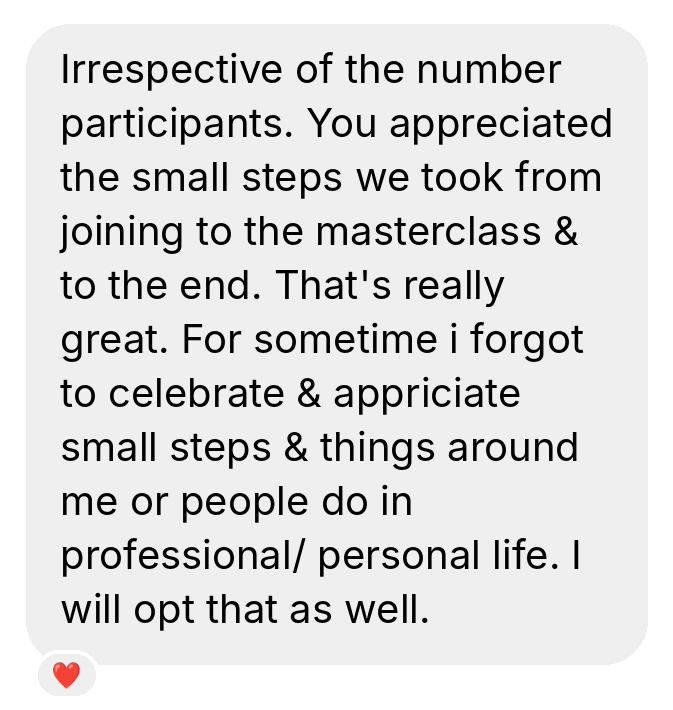
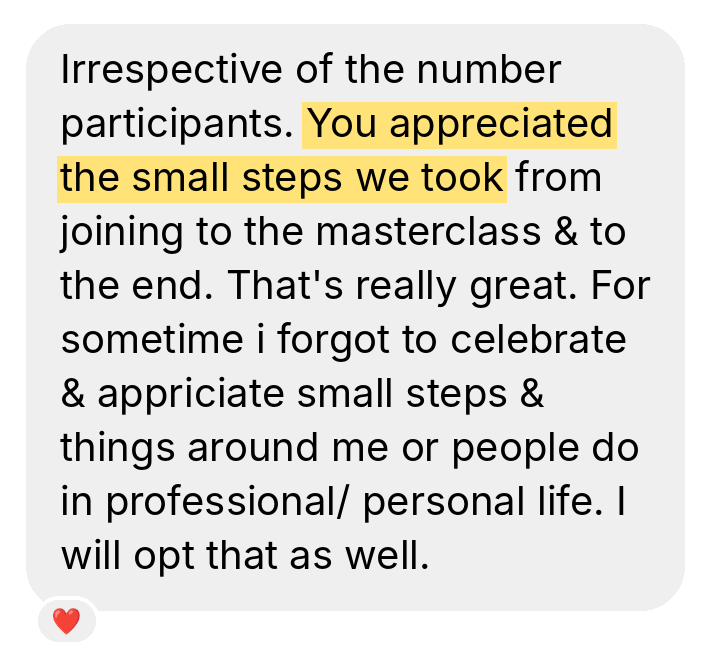
Website v3: new photos, buttons that sell, highlighted testimonials
Claude-Session: https://claude.ai/code/session_01CyaY9SvnjK7DZTafy9cMrn

Changed region(s): [[0.0624, 0.061, 0.9049, 0.8841], [0.0624, 0.9146, 0.1248, 0.9756]]

diff --git a/coming-home.html b/coming-home.html
@@ -8,7 +8,7 @@
 <meta name="description" content="Coming Home: 6 weeks with Deepshikha, live every week. Find what you actually want, and start living it.">
 <meta property="og:title" content="Coming Home · To See As It Is">
 <meta property="og:description" content="Coming Home: 6 weeks with Deepshikha, live every week. Find what you actually want, and start living it.">
-<meta property="og:image" content="assets/img/home-hero.webp">
+<meta property="og:image" content="assets/img/dp-brown.webp">
 <link rel="preconnect" href="https://fonts.googleapis.com"><link rel="preconnect" href="https://fonts.gstatic.com" crossorigin>
 <link rel="stylesheet" href="https://fonts.googleapis.com/css2?family=Cormorant+Garamond:ital,wght@0,500;0,600;1,500&family=DM+Sans:wght@400;500;600&display=swap">
 <link rel="stylesheet" href="assets/style.css">
@@ -17,14 +17,14 @@
 <header class="nav"><div class="wrap"><a class="logo" href="index.html">to see as it is</a><nav aria-label="Main"><ul><li><a href="index.html">Home</a></li><li><a href="coming-home.html" aria-current="page">Coming Home</a></li><li><a href="store.html">Store</a></li><li><a href="about.html">About</a></li></ul></nav></div></header>
 <main>
 <section class="hero"><div class="hero-split">
-  <div class="ph photo"><img src="assets/img/ch-hero.webp" alt="Deepshikha smiling up at the sky on a forest beach" width="1200" height="1600"></div>
+  <div class="ph photo"><img src="assets/img/hill-point.webp" alt="Deepshikha laughing on a hilltop, pointing up at a huge sky" width="1200" height="1600"></div>
   <div class="copy">
     <p class="label">Coming Home · a 6-week program with me</p>
-    <h1>The life you keep postponing <em>starts here.</em></h1>
-    <p class="lede read">For the one who's good at a job they don't love. In six weeks you find what you actually want, believe you're allowed to have it, and start living it: the money mapped, the conversation had, your first paid thing out in the world.</p>
+    <h1>The life you keep postponing <em>starts HERE.</em></h1>
+    <p class="lede read">For the one who's good at a job they don't love. In six weeks you find what you actually want, <strong>believe you're allowed to have it</strong>, and start LIVING it: the money mapped, the conversation had, your first paid thing out in the world.</p>
     <div class="btns">
-      <a class="btn btn-main" href="#join">Apply for Coming Home</a>
-      <a class="link" href="#inside">What's inside</a>
+      <a class="btn btn-main" href="#join">I'm ready to stop postponing</a>
+      <a class="link" href="#inside">Show me the 6 weeks</a>
     </div>
   </div>
 </div></section>
@@ -43,7 +43,7 @@
 <section class="dark"><div class="wrap stack-lg">
   <div class="stack read">
     <p class="label">Where you are</p>
-    <h2>You're not confused. <em>You're postponing.</em></h2>
+    <h2>You're not confused. <em>You're POSTPONING.</em></h2>
   </div>
   <ul class="scenes">
     <li><span class="when">Monday, 9:30 am</span><span class="what">The laptop opens and something in you switches off until Friday.</span></li>
@@ -58,7 +58,7 @@
   <div class="ph ph-tall"><img src="assets/img/joy.webp" alt="Deepshikha laughing on a beach with her arm up in the air" width="901" height="1600" loading="lazy"></div>
   <div class="stack-lg">
     <div class="stack"><p class="label">Six weeks from now</p>
-    <h2>You stop waiting for your life <em>and start living it.</em></h2></div>
+    <h2>You stop waiting for your life <em>and start LIVING it.</em></h2></div>
     <ul class="scenes">
       <li><span class="when">Monday</span><span class="what">You wake up knowing exactly what you're building and why. Every week moves you towards it.</span></li>
       <li><span class="when">The bank app</span><span class="what">You open it calm. You know your number, your runway and how you'll earn from what you love.</span></li>
@@ -70,14 +70,14 @@
 </div></section>
 
 <section class="dark"><div class="wrap split rev">
-  <div class="ph ph-tall"><img src="assets/img/laugh.webp" alt="Deepshikha laughing behind her hand" width="1200" height="1600" loading="lazy"></div>
+  <div class="ph ph-tall"><img src="assets/img/lake-laugh.webp" alt="Deepshikha laughing by a lake, arm stretched out" width="1200" height="1600" loading="lazy"></div>
   <div class="stack">
     <p class="label">Why I made this</p>
     <h2>I had the six-figure salary, the promotions, <em>the proud family.</em></h2>
-    <p>And every Sunday, the same weight. For years I told myself I just needed a remote job. Then it hit me: a remote job would only give me a remote version of the same life.</p>
+    <p>And every Sunday, the same weight. For years I told myself I just needed a remote job. Then it hit me: <strong>a remote job would only give me a remote version of the same life.</strong></p>
     <p>Halfway through ten days of silence at Vipassana, I knew. I left with no plan and built a life I actually wake up excited for.</p>
-    <p>I didn't need more information. I needed to see my life as it is, stay with the fear until it lost its grip, and then move. Coming Home is that, step by step, with me beside you.</p>
-    <p><a class="link" href="about.html">My story</a></p>
+    <p>I didn't need more information. I needed to <mark>see my life as it is</mark>, stay with the fear until it lost its grip, and then move. Coming Home is that, step by step, with me beside you.</p>
+    <p><a class="link" href="about.html">How I left with no plan</a></p>
   </div>
 </div></section>
 
@@ -101,8 +101,8 @@
   <div class="ph ph-tall"><img src="assets/img/ritual.webp" alt="Deepshikha's silhouette on the shore at sunset" width="1200" height="1600" loading="lazy"></div>
   <div class="stack-lg">
     <div class="stack"><p class="label">What you get</p>
-    <h2>Every week ends <em>with a ritual.</em></h2>
-    <p class="soft">A candle, a jar, a line on the floor, your own front door. Done with your hands and your body, so the change doesn't stay in your head. Nobody else teaches it this way.</p></div>
+    <h2>Every week ends <em>with a RITUAL.</em></h2>
+    <p class="soft">A candle, a jar, a line on the floor, your own front door. Done with your hands and your body, so the change doesn't stay in your head. <strong>Nobody else teaches it this way.</strong></p></div>
     <div class="incl">
       <div><strong>A live call with me, every week</strong><span class="soft">Bring what's stuck. We work on it together, live, in the group.</span></div>
       <div><strong>Lessons, week by week</strong><span class="soft">Real stories, real studies, the why behind every tool.</span></div>
@@ -116,7 +116,7 @@
 
 <section><div class="wrap stack-lg">
   <div class="stack read"><p class="label">In their words</p>
-  <h2>"It felt like <em>I am living it.</em>"</h2>
+  <h2>"It felt like <em>I am LIVING it.</em>"</h2>
   <p class="soft">Real messages, names left out.</p></div>
   <div class="wall">
     <figure><img src="assets/img/msg-1.png" alt="Message: That it felt like I am living it, from past few months I was thinking I am going far away from the life I want, but it felt so real and not something like I can't do it" loading="lazy"><figcaption>A Coming Home member, asked what surprised her</figcaption></figure>
@@ -134,9 +134,9 @@
   <div class="stack">
     <p class="label">Not for everyone. Read this.</p><h3>This is for you if</h3>
     <ul>
-      <li>You're the one everyone calls "sorted". Good job, good salary, a family that's proud. And you feel nothing on a Monday morning.</li>
+      <li>You're the one everyone calls "sorted". Good job, good salary, a family that's proud. <strong>And you feel NOTHING on a Monday morning.</strong></li>
       <li>You've been "about to" for months: the course, the side thing, the resignation mail sitting in drafts.</li>
-      <li>You know there's something you came here to do. You can almost name it.</li>
+      <li><strong>You know there's something you came here to do.</strong> You can almost name it.</li>
       <li>You're done collecting reels and advice. You want to move, with someone who has already done it.</li>
       <li>You're ready to invest real time and money in yourself.</li>
     </ul>
@@ -146,7 +146,7 @@
     <ul>
       <li>You want someone to decide for you. In here, you make your own decisions, from a very different place.</li>
       <li>You're looking for a quick hack or a certificate.</li>
-      <li>You'll join and not show up. This works when you do the work.</li>
+      <li>You'll join and not show up. <strong>This works when YOU do the work.</strong></li>
       <li>Staying comfortable matters more to you than living your own life.</li>
       <li>You're in a really dark place right now. Please talk to a therapist first. I say that with love.</li>
     </ul>
@@ -158,7 +158,7 @@
     <p class="label">Your investment</p>
     <p class="price">₹49,999</p>
     <p class="soft">Six weeks · a live call with me every week · 3 months of community · lifetime access</p>
-    <div class="btns"><a class="btn btn-main" href="https://calendly.com/toseeasitis-support/is-coming-home-for-you-30-min-fit-call" target="_blank" rel="noopener">Book your Coming Home call</a></div>
+    <div class="btns"><a class="btn btn-main" href="https://calendly.com/toseeasitis-support/is-coming-home-for-you-30-min-fit-call" target="_blank" rel="noopener">Book my call: is this my time?</a></div>
     <p class="note">Already had your call and got the go-ahead? <a href="https://superprofile.bio/course/cominghome?checkout=true" target="_blank" rel="noopener">Join here.</a></p>
   </div>
   <div class="stack">
@@ -166,7 +166,7 @@
     <ol class="steps">
       <li><b>1</b><span><strong>Book your Coming Home call.</strong> 45 minutes with me. Answer a few questions first so I know where you are.</span></li>
       <li><b>2</b><span><strong>We talk honestly</strong> about where you are, where you want to be, and whether Coming Home is how you get there. It's not a coaching session. It's how we both decide.</span></li>
-      <li><b>3</b><span><strong>If it's a yes</strong>, you get your link, join, and we begin.</span></li>
+      <li><b>3</b><span><strong>If it's a yes</strong>, you get your link, join, and we begin. Your next six weeks look NOTHING like your last six years.</span></li>
     </ol>
   </div>
 </div></section>
@@ -191,14 +191,14 @@
   <p class="read">You didn't find this page by accident. If something in you said "this is me", listen to it.</p>
   <p class="soft read">I still have fears and bad days. The difference is they don't run my life anymore. That's what I want for you.</p>
   <p class="sign">love, Deepshikha</p>
-  <div class="btns" style="justify-content:center"><a class="btn btn-main" href="https://calendly.com/toseeasitis-support/is-coming-home-for-you-30-min-fit-call" target="_blank" rel="noopener">Book your Coming Home call</a></div>
+  <div class="btns" style="justify-content:center"><a class="btn btn-main" href="https://calendly.com/toseeasitis-support/is-coming-home-for-you-30-min-fit-call" target="_blank" rel="noopener">Yes, I'm done postponing. Book my call</a></div>
 </div></section>
 
 </main>
 <footer class="foot"><div class="wrap">
 <div class="stack" style="max-width:22rem"><p class="logo">to see as it is</p>
 <p class="soft">Help people, heal the world. Help people remember who they came here to be.</p>
-<p><a class="link" href="https://calendly.com/toseeasitis-support/is-coming-home-for-you-30-min-fit-call" target="_blank" rel="noopener">Book your Coming Home call</a></p></div>
+<p><a class="link" href="https://calendly.com/toseeasitis-support/is-coming-home-for-you-30-min-fit-call" target="_blank" rel="noopener">Book my Coming Home call</a></p></div>
 <ul><li><a href="coming-home.html">Coming Home</a></li><li><a href="store.html">Store</a></li><li><a href="about.html">About</a></li></ul>
 <ul><li><a href="https://instagram.com/deepshikhagovil" target="_blank" rel="noopener">Instagram @deepshikhagovil</a></li><li>support@toseeasitis.com</li><li class="soft small">© 2026 To See As It Is</li></ul>
 </div></footer>

diff --git a/index.html b/index.html
@@ -8,7 +8,7 @@
 <meta name="description" content="You're good at a job you don't love, and you already know it. Deepshikha helps you find what you actually want and start living it.">
 <meta property="og:title" content="To See As It Is">
 <meta property="og:description" content="You're good at a job you don't love, and you already know it. Deepshikha helps you find what you actually want and start living it.">
-<meta property="og:image" content="assets/img/home-hero.webp">
+<meta property="og:image" content="assets/img/dp-brown.webp">
 <link rel="preconnect" href="https://fonts.googleapis.com"><link rel="preconnect" href="https://fonts.gstatic.com" crossorigin>
 <link rel="stylesheet" href="https://fonts.googleapis.com/css2?family=Cormorant+Garamond:ital,wght@0,500;0,600;1,500&family=DM+Sans:wght@400;500;600&display=swap">
 <link rel="stylesheet" href="assets/style.css">
@@ -17,14 +17,14 @@
 <header class="nav"><div class="wrap"><a class="logo" href="index.html">to see as it is</a><nav aria-label="Main"><ul><li><a href="index.html" aria-current="page">Home</a></li><li><a href="coming-home.html">Coming Home</a></li><li><a href="store.html">Store</a></li><li><a href="about.html">About</a></li></ul></nav></div></header>
 <main>
 <section class="hero"><div class="hero-split">
-  <div class="ph photo"><img src="assets/img/home-hero.webp" alt="Deepshikha on a windswept beach, hand in her hair" width="1200" height="1600"></div>
+  <div class="ph photo"><img src="assets/img/dp-brown.webp" alt="Deepshikha in a brown dress in a park, smiling straight at the camera" width="1080" height="1080"></div>
   <div class="copy">
     <p class="label">Deepshikha · to see as it is</p>
-    <h1>You're good at a job you don't love. <em>And you already know it.</em></h1>
-    <p class="lede read">I help you find what you actually want, believe you're allowed to have it, and build a life and a living around it. I left a six-figure corporate career to do exactly that.</p>
+    <h1>You're good at a job you don't love. <em>And you ALREADY know it.</em></h1>
+    <p class="lede read">I help you find what you actually want, <strong>believe you're allowed to have it</strong>, and build a life and a living around it. I left a six-figure corporate career with no plan to do exactly that.</p>
     <div class="btns">
-      <a class="btn btn-main" href="coming-home.html">Explore Coming Home</a>
-      <a class="link" href="about.html">My story</a>
+      <a class="btn btn-main" href="coming-home.html">Show me how to find what I want</a>
+      <a class="link" href="about.html">How I left my job with no plan</a>
     </div>
   </div>
 </div></section>
@@ -32,7 +32,7 @@
 <section class="dark"><div class="wrap stack-lg">
   <div class="stack read">
     <p class="label">Does this sound like your week?</p>
-    <h2>Everything looks right on paper. <em>It just doesn't feel like yours.</em></h2>
+    <h2>Everything looks right on paper. <em>It just doesn't feel like YOURS.</em></h2>
   </div>
   <ul class="scenes">
     <li><span class="when">Sunday, 7 pm</span><span class="what">The heaviness starts before dinner. You know exactly why.</span></li>
@@ -49,12 +49,12 @@
     <h2>Coming Home, <em>my 6-week program.</em></h2>
   </div>
   <div class="feature">
-    <div class="ph"><img src="assets/img/ch-hero.webp" alt="Deepshikha smiling up at the sky on a forest beach" width="1200" height="1600" loading="lazy"></div>
+    <div class="ph"><img src="assets/img/hill-point.webp" alt="Deepshikha laughing on a hilltop, pointing up at a huge sky" width="1200" height="1600" loading="lazy"></div>
     <div class="body">
       <p class="label">6 weeks · live with me every week</p>
-      <h3>Find what you actually want. Then live it.</h3>
+      <h3>Find what you actually want. <em>Then LIVE it.</em></h3>
       <p class="soft">The rules that were never yours, the fear that keeps pulling you back, the money, the conversation with the people you love, and your first paid thing out in the world. Lessons, meditations, a ritual every week and a live call with me.</p>
-      <div class="btns"><a class="btn btn-main" href="coming-home.html">See what's inside</a></div>
+      <div class="btns"><a class="btn btn-main" href="coming-home.html">See how 6 weeks change it</a></div>
     </div>
   </div>
   <div class="offers" style="grid-template-columns:repeat(auto-fit,minmax(min(100%,320px),1fr))">
@@ -63,25 +63,25 @@
       <h3>1:1 coaching session</h3>
       <p class="soft">One session, just you and me, on whatever is heaviest for you right now.</p>
       <p class="amt">₹999</p>
-      <div class="btns"><a class="btn btn-ghost" href="https://superprofile.bio/bookings/deepshikhagovil111?sessionId=6a79974b2e0ced0013a6f27a" target="_blank" rel="noopener">Book a session</a></div>
+      <div class="btns"><a class="btn btn-ghost" href="https://superprofile.bio/bookings/deepshikhagovil111?sessionId=6a79974b2e0ced0013a6f27a" target="_blank" rel="noopener">Get unstuck in 30 minutes</a></div>
     </article>
     <article class="offer">
       <span class="meta">Courses &amp; guides</span>
       <h3>Start on your own</h3>
       <p class="soft">The "Should I?" Decision Reset and the Permissionless Reset guide. Begin tonight.</p>
-      <div class="btns"><a class="btn btn-ghost" href="store.html">See the store</a></div>
+      <div class="btns"><a class="btn btn-ghost" href="store.html">Start on my own tonight</a></div>
     </article>
   </div>
 </div></section>
 
 <section class="dark"><div class="wrap split rev">
-  <div class="ph ph-tall"><img src="assets/img/laugh.webp" alt="Deepshikha laughing behind her hand" width="1200" height="1600" loading="lazy"></div>
+  <div class="ph ph-tall"><img src="assets/img/lake-laugh.webp" alt="Deepshikha laughing by a lake, arm stretched out" width="1200" height="1600" loading="lazy"></div>
   <div class="stack">
     <p class="label">Hi, I'm Deepshikha</p>
     <h2>I built the right life. <em>It just wasn't mine.</em></h2>
-    <p>MBA. Promoted every year. A six-figure salary my family was proud of. And every Sunday, the same weight.</p>
+    <p>MBA. Promoted every year. A six-figure salary my family was proud of. <strong>And every Sunday, the same weight.</strong></p>
     <p>Halfway through ten days of silence at Vipassana, I knew. I left with no plan, and I've never looked back. Now I help people like the old me stop postponing their lives.</p>
-    <p><a class="link" href="about.html">Read my story</a></p>
+    <p><a class="link" href="about.html">Read how I got out</a></p>
   </div>
 </div></section>
 
@@ -100,14 +100,14 @@
   <p class="label">Coming Home</p>
   <h2>Ready to see if Coming Home <em>is for you?</em></h2>
   <p class="soft read">Book a 45-minute call with me. We'll look at where you are, where you want to be, and whether the six weeks will get you there.</p>
-  <div class="btns" style="justify-content:center"><a class="btn btn-main" href="https://calendly.com/toseeasitis-support/is-coming-home-for-you-30-min-fit-call" target="_blank" rel="noopener">Book your Coming Home call</a></div>
+  <div class="btns" style="justify-content:center"><a class="btn btn-main" href="https://calendly.com/toseeasitis-support/is-coming-home-for-you-30-min-fit-call" target="_blank" rel="noopener">Yes, I'm done postponing. Book my call</a></div>
 </div></section>
 
 </main>
 <footer class="foot"><div class="wrap">
 <div class="stack" style="max-width:22rem"><p class="logo">to see as it is</p>
 <p class="soft">Help people, heal the world. Help people remember who they came here to be.</p>
-<p><a class="link" href="https://calendly.com/toseeasitis-support/is-coming-home-for-you-30-min-fit-call" target="_blank" rel="noopener">Book your Coming Home call</a></p></div>
+<p><a class="link" href="https://calendly.com/toseeasitis-support/is-coming-home-for-you-30-min-fit-call" target="_blank" rel="noopener">Book my Coming Home call</a></p></div>
 <ul><li><a href="coming-home.html">Coming Home</a></li><li><a href="store.html">Store</a></li><li><a href="about.html">About</a></li></ul>
 <ul><li><a href="https://instagram.com/deepshikhagovil" target="_blank" rel="noopener">Instagram @deepshikhagovil</a></li><li>support@toseeasitis.com</li><li class="soft small">© 2026 To See As It Is</li></ul>
 </div></footer>

diff --git a/store.html b/store.html
@@ -8,7 +8,7 @@
 <meta name="description" content="Everything Deepshikha offers, from a free call to Coming Home.">
 <meta property="og:title" content="Store · To See As It Is">
 <meta property="og:description" content="Everything Deepshikha offers, from a free call to Coming Home.">
-<meta property="og:image" content="assets/img/home-hero.webp">
+<meta property="og:image" content="assets/img/dp-brown.webp">
 <link rel="preconnect" href="https://fonts.googleapis.com"><link rel="preconnect" href="https://fonts.gstatic.com" crossorigin>
 <link rel="stylesheet" href="https://fonts.googleapis.com/css2?family=Cormorant+Garamond:ital,wght@0,500;0,600;1,500&family=DM+Sans:wght@400;500;600&display=swap">
 <link rel="stylesheet" href="assets/style.css">
@@ -24,14 +24,14 @@
 
 <section style="padding-top:0"><div class="wrap stack-lg">
   <div class="feature">
-    <div class="ph"><img src="assets/img/sea-walk.webp" alt="Deepshikha walking out of the sea with her hand in her hair" width="1200" height="1600" loading="lazy"></div>
+    <div class="ph"><img src="assets/img/joy.webp" alt="Deepshikha laughing on a beach with her arm up in the air" width="901" height="1600" loading="lazy"></div>
     <div class="body">
       <p class="label">The program · 6 weeks</p>
       <h2>Coming Home</h2>
       <p class="soft">For the one who's good at a job they don't love. Find what you actually want and start living it: the money mapped, the conversation had, your first paid thing out in the world. Weekly live call with me, lessons, meditations, a ritual every week, 3 months of community.</p>
       <p class="sign" style="font-style:normal">₹49,999</p>
-      <div class="btns"><a class="btn btn-main" href="coming-home.html">See what's inside</a>
-      <a class="link" href="https://calendly.com/toseeasitis-support/is-coming-home-for-you-30-min-fit-call" target="_blank" rel="noopener">Book your Coming Home call</a></div>
+      <div class="btns"><a class="btn btn-main" href="coming-home.html">See how 6 weeks change it</a>
+      <a class="link" href="https://calendly.com/toseeasitis-support/is-coming-home-for-you-30-min-fit-call" target="_blank" rel="noopener">Book my call: is this my time?</a></div>
     </div>
   </div>
 
@@ -41,21 +41,21 @@
       <h3>1:1 coaching session</h3>
       <p class="soft">One session, just you and me, on whatever is heaviest for you right now. You leave knowing what you actually think, and your next step.</p>
       <p class="amt">₹999</p>
-      <div class="btns"><a class="btn btn-main" href="https://superprofile.bio/bookings/deepshikhagovil111?sessionId=6a79974b2e0ced0013a6f27a" target="_blank" rel="noopener">Book a session</a></div>
+      <div class="btns"><a class="btn btn-main" href="https://superprofile.bio/bookings/deepshikhagovil111?sessionId=6a79974b2e0ced0013a6f27a" target="_blank" rel="noopener">Get unstuck in 30 minutes</a></div>
     </article>
     <article class="offer">
       <span class="meta">Short course · 5 modules</span>
       <h3>The "Should I?" Decision Reset</h3>
       <p class="soft">The shoulds running your life, fear vs your gut, and why your body is part of every decision. Lessons, exercises and guided audio.</p>
       <p class="amt">See price</p>
-      <div class="btns"><a class="btn btn-ghost" href="https://superprofile.bio/deepshikhagovil111" target="_blank" rel="noopener">Get the course</a></div>
+      <div class="btns"><a class="btn btn-ghost" href="https://superprofile.bio/deepshikhagovil111" target="_blank" rel="noopener">Stop going round in circles</a></div>
     </article>
     <article class="offer">
       <span class="meta">Guide</span>
       <h3>The Permissionless Reset</h3>
       <p class="soft">For when you keep waiting for someone else to say it's okay to live the life you want. Start tonight.</p>
       <p class="amt">See price</p>
-      <div class="btns"><a class="btn btn-ghost" href="https://superprofile.bio/deepshikhagovil111" target="_blank" rel="noopener">Get the guide</a></div>
+      <div class="btns"><a class="btn btn-ghost" href="https://superprofile.bio/deepshikhagovil111" target="_blank" rel="noopener">Give myself permission</a></div>
     </article>
   </div>
   <p class="note">Already a Coming Home member? Your lessons are where they've always been. Your welcome email has the link.</p>
@@ -65,7 +65,7 @@
 <footer class="foot"><div class="wrap">
 <div class="stack" style="max-width:22rem"><p class="logo">to see as it is</p>
 <p class="soft">Help people, heal the world. Help people remember who they came here to be.</p>
-<p><a class="link" href="https://calendly.com/toseeasitis-support/is-coming-home-for-you-30-min-fit-call" target="_blank" rel="noopener">Book your Coming Home call</a></p></div>
+<p><a class="link" href="https://calendly.com/toseeasitis-support/is-coming-home-for-you-30-min-fit-call" target="_blank" rel="noopener">Book my Coming Home call</a></p></div>
 <ul><li><a href="coming-home.html">Coming Home</a></li><li><a href="store.html">Store</a></li><li><a href="about.html">About</a></li></ul>
 <ul><li><a href="https://instagram.com/deepshikhagovil" target="_blank" rel="noopener">Instagram @deepshikhagovil</a></li><li>support@toseeasitis.com</li><li class="soft small">© 2026 To See As It Is</li></ul>
 </div></footer>

diff --git a/about.html b/about.html
@@ -8,7 +8,7 @@
 <meta name="description" content="Deepshikha left a six-figure corporate job with no plan, after ten days of silence. This is why To See As It Is exists.">
 <meta property="og:title" content="About Deepshikha · To See As It Is">
 <meta property="og:description" content="Deepshikha left a six-figure corporate job with no plan, after ten days of silence. This is why To See As It Is exists.">
-<meta property="og:image" content="assets/img/home-hero.webp">
+<meta property="og:image" content="assets/img/dp-brown.webp">
 <link rel="preconnect" href="https://fonts.googleapis.com"><link rel="preconnect" href="https://fonts.gstatic.com" crossorigin>
 <link rel="stylesheet" href="https://fonts.googleapis.com/css2?family=Cormorant+Garamond:ital,wght@0,500;0,600;1,500&family=DM+Sans:wght@400;500;600&display=swap">
 <link rel="stylesheet" href="assets/style.css">
@@ -17,10 +17,10 @@
 <header class="nav"><div class="wrap"><a class="logo" href="index.html">to see as it is</a><nav aria-label="Main"><ul><li><a href="index.html">Home</a></li><li><a href="coming-home.html">Coming Home</a></li><li><a href="store.html">Store</a></li><li><a href="about.html" aria-current="page">About</a></li></ul></nav></div></header>
 <main>
 <section class="hero"><div class="hero-split">
-  <div class="ph photo"><img src="assets/img/about-hero.webp" alt="Deepshikha standing on a rock in a golden stream, forest hills behind her" width="1200" height="1600"></div>
+  <div class="ph photo"><img src="assets/img/hill-calm.webp" alt="Deepshikha smiling on a hilltop with mountains and sky behind her" width="1200" height="1600"></div>
   <div class="copy">
     <p class="label">About</p>
-    <h1>I built the right life. <em>It just wasn't mine.</em></h1>
+    <h1>I built the right life. <em>It just wasn't MINE.</em></h1>
     <p class="lede read">I'm Deepshikha. I help people who are good at a job they don't love remember who they came here to be, and actually live it.</p>
   </div>
 </div></section>
@@ -30,12 +30,12 @@
   <p class="big-quote" style="font-style:normal">I did everything right. MBA. Promoted every year. A six-figure salary my family was proud of.</p>
   <p>And I hated needing permission to live my life. Leave approvals. A vacation I had to ask for. For three or four years I told myself I just needed a remote job. I tried things on the side. All of them died out, and I blamed time.</p>
   <p>Then one day, travelling, I read a message about possible layoffs. I wasn't even scared. It just clicked: something I don't even want could be taken away from me anyway. Nothing is guaranteed.</p>
-  <p>Meditation brought me back to myself. Then Vipassana: ten days of silence. Halfway through, I knew. I quit soon after, with no plan, no next job, no backup.</p>
+  <p>Meditation brought me back to myself. Then Vipassana: ten days of silence. Halfway through, I knew. <strong>I quit soon after, with no plan, no next job, no backup.</strong></p>
   <p>That's where To See As It Is began.</p>
 </div></section>
 
 <section><div class="wrap split">
-  <div class="ph ph-tall"><img src="assets/img/field.webp" alt="Deepshikha running alone across a wide green field" width="1200" height="1600" loading="lazy"></div>
+  <div class="ph ph-tall"><img src="assets/img/palm.webp" alt="Deepshikha smiling under a palm tree, arm stretched out" width="1200" height="1600" loading="lazy"></div>
   <div class="stack">
     <p class="label">Why "to see as it is"</p>
     <h2>I won't hype you out of the fear. <em>I'll help you see it as it is.</em></h2>
@@ -48,15 +48,15 @@
 <section class="dark"><div class="wrap stack center" style="max-width:820px;gap:1.8rem">
   <p class="label">What I'm here for</p>
   <p class="big-quote">Help people, heal the world. Help people remember who they came here to be.</p>
-  <div class="btns" style="justify-content:center"><a class="btn btn-main" href="coming-home.html">Explore Coming Home</a>
-  <a class="link" href="https://instagram.com/deepshikhagovil" target="_blank" rel="noopener">Instagram</a></div>
+  <div class="btns" style="justify-content:center"><a class="btn btn-main" href="coming-home.html">Show me how you can help me</a>
+  <a class="link" href="https://instagram.com/deepshikhagovil" target="_blank" rel="noopener">Follow my everyday life</a></div>
 </div></section>
 
 </main>
 <footer class="foot"><div class="wrap">
 <div class="stack" style="max-width:22rem"><p class="logo">to see as it is</p>
 <p class="soft">Help people, heal the world. Help people remember who they came here to be.</p>
-<p><a class="link" href="https://calendly.com/toseeasitis-support/is-coming-home-for-you-30-min-fit-call" target="_blank" rel="noopener">Book your Coming Home call</a></p></div>
+<p><a class="link" href="https://calendly.com/toseeasitis-support/is-coming-home-for-you-30-min-fit-call" target="_blank" rel="noopener">Book my Coming Home call</a></p></div>
 <ul><li><a href="coming-home.html">Coming Home</a></li><li><a href="store.html">Store</a></li><li><a href="about.html">About</a></li></ul>
 <ul><li><a href="https://instagram.com/deepshikhagovil" target="_blank" rel="noopener">Instagram @deepshikhagovil</a></li><li>support@toseeasitis.com</li><li class="soft small">© 2026 To See As It Is</li></ul>
 </div></footer>

diff --git a/assets/style.css b/assets/style.css
@@ -67,7 +67,7 @@ body::before{content:"";position:fixed;inset:0 0 auto;height:env(safe-area-inset
 .hero{padding-block:0}
 .hero-split{display:grid;grid-template-columns:1fr}
 .hero-split .photo{aspect-ratio:4/5;max-height:78svh;width:100%;overflow:hidden}
-.hero-split .photo img{width:100%;height:100%;object-fit:cover;object-position:35% 60%}
+.hero-split .photo img{width:100%;height:100%;object-fit:cover;object-position:50% 35%}
 .hero-split .copy{padding-block:2.8rem 4rem;display:flex;flex-direction:column;justify-content:center;gap:1.6rem}
 @media (min-width:900px){
   .hero-split{grid-template-columns:1.05fr .95fr;min-height:min(86svh, 860px)}
@@ -157,3 +157,7 @@ details .ans{margin-top:.9rem;display:flex;flex-direction:column;gap:.8rem;color
 .foot ul{list-style:none;margin:0;padding:0;display:grid;gap:.55rem;font-size:.95rem}
 .foot .soft{color:var(--dark-soft)}
 .center{text-align:center;align-items:center;margin-inline:auto}
+
+/* her voice on the page (Lo-style character, rule 259): bold key lines, a soft highlighter on the one that matters */
+strong{font-weight:600}
+mark{background:linear-gradient(transparent 55%, color-mix(in srgb, var(--gold) 45%, transparent) 55%);color:inherit;padding:0 .1em}
